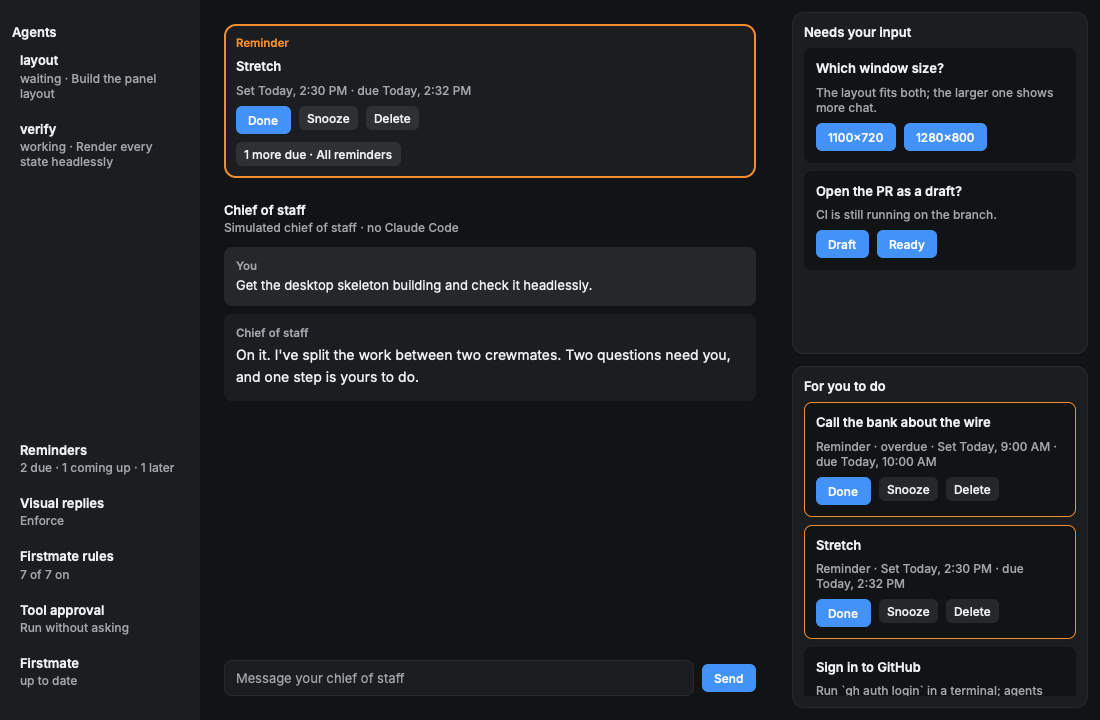
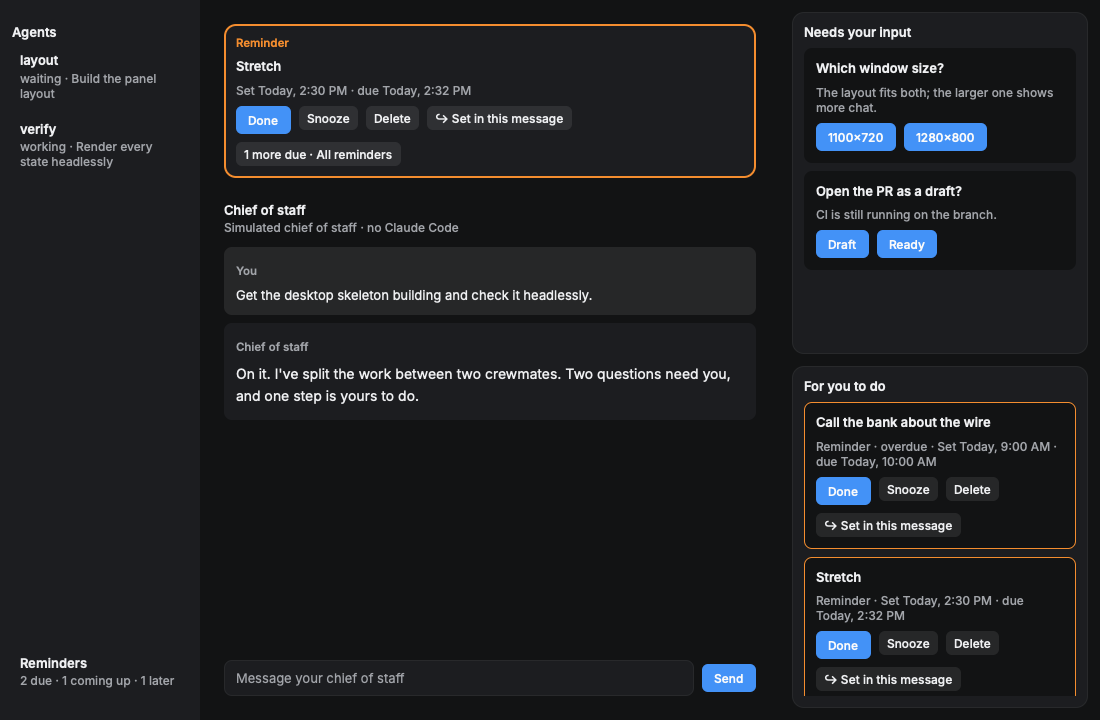
feat(reminders): link reminders to their message and add a Reminders settings section
Now that message links and the Settings menu are on main, a reminder
keeps the id of the captain's message the chief of staff was answering
when it set it. The banner, the For you to do card and the Reminders page
show "Set in this message", which goes to that message like a message
link, and app_reminders names the link.

Reminder settings are the Reminders section of Settings, with a summary
on its card, and the reminder settings page links back to all settings.
The docs, scenes, checks and screenshots follow.

diff --git a/src/main.rs b/src/main.rs
@@ -636,6 +636,9 @@ impl App {
         self.ws.apply(&action);
         if matches!(action, Action::Say(_) | Action::Ui(_)) {
             self.keep(self.ws.chat.len() - 1);
+            // A reminder the chief of staff sets in this turn links back to this message.
+            self.reminders
+                .said_in(&self.ws.chat[self.ws.chat.len() - 1].id);
         }
         self.chief.act(&self.ws, &action);
         self.drain();
@@ -1440,6 +1443,13 @@ fn main() {
                 *s = on_clock(&scratch("unused"), friday(14, 30)).0;
                 s.showing = Showing::ReminderSettings;
             }),
+            // A due reminder's "Set in this message", pressed: the chat at the captain's message,
+            // highlighted.
+            ("reminder-link-opened", |s| {
+                *s = reminders_due().0;
+                let message = s.ws.chat[0].id.clone();
+                s.go_to(&message);
+            }),
         ],
         min_size: Some((900.0, 560.0)),
         setup: Some(setup),
@@ -1515,6 +1525,8 @@ fn reminders_set() -> (App, Hands) {
 /// id of the second. Two more wait.
 fn reminders_due() -> (App, u64) {
     let (mut app, hands) = on_clock(&scratch("unused"), friday(9, 0));
+    // Set in reply to the stub's first message, which the reminders link back to.
+    app.reminders.said_in(&app.ws.chat[0].id);
     app.reminders
         .set("Call the bank about the wire", When::In(1, Unit::Hours))
         .expect("a reminder");
@@ -3805,10 +3817,24 @@ mod tests {
         assert_eq!(reply, "Reminder set for Today, 2:32 PM: Stretch");
         assert_eq!(texts_under(&rt, "reminders-summary"), ["1 coming up"]);
         assert!(rt.find("reminder-banner").is_none());
+        // It links back to the captain's message it was set in.
+        let asked = rt
+            .state
+            .ws
+            .chat
+            .iter()
+            .find(|m| m.text == "remind: in 2 minutes | Stretch")
+            .expect("the captain's message")
+            .id
+            .clone();
+        assert_eq!(rt.state.reminders.list()[0].message.as_ref(), Some(&asked));
         let reply = send_and_wait(&mut rt, "reminders?");
         assert_eq!(
             reply,
-            "It is now Today, 2:30 PM.\n- Today, 2:32 PM: Stretch (set Today, 2:30 PM)"
+            format!(
+                "It is now Today, 2:30 PM.\n- Today, 2:32 PM: Stretch (set Today, 2:30 PM in {})",
+                links::url(&asked)
+            )
         );
         *hands.lock().unwrap() = friday(14, 32);
         rt.frame(1.0 / 60.0);
@@ -3818,10 +3844,36 @@ mod tests {
             ["Set Today, 2:30 PM \u{b7} due Today, 2:32 PM"]
         );
         assert!(rt.find("reminder-1").is_some(), "in For you to do");
+        // From the Reminders page, the link goes back to the message and highlights it.
+        tap(&mut rt, "reminders");
+        tap(&mut rt, "list-1-message");
+        assert_eq!(rt.state.showing, Showing::Chat);
+        assert!(matches!(&rt.state.flash, Some((Ok(id), _)) if *id == asked));
         tap(&mut rt, "banner-1-done");
         assert!(rt.find("reminder-banner").is_none());
         assert!(rt.find("reminder-1").is_none());
         assert!(rt.state.reminders.list().is_empty());
+    }
+
+    #[test]
+    fn the_reminder_settings_are_a_section_of_settings() {
+        let (app, _) = on_clock(&scratch("unused"), friday(14, 30));
+        let mut rt = runtime_with(app);
+        chord(&mut rt, ',', false);
+        assert_eq!(rt.state.showing, Showing::Settings);
+        assert_eq!(
+            texts_under(&rt, "reminder-settings-summary"),
+            ["later today by 6:00 PM \u{b7} mornings 9:00 AM"]
+        );
+        tap(&mut rt, "reminder-settings");
+        assert_eq!(rt.state.showing, Showing::ReminderSettings);
+        tap(&mut rt, "reminder-setting-morning-up");
+        tap(&mut rt, "reminder-settings-all-settings");
+        assert_eq!(rt.state.showing, Showing::Settings);
+        assert_eq!(
+            texts_under(&rt, "reminder-settings-summary"),
+            ["later today by 6:00 PM \u{b7} mornings 9:30 AM"]
+        );
     }
 
     #[test]

diff --git a/src/reminders.rs b/src/reminders.rs
@@ -17,6 +17,7 @@ use jiff::civil::{Date, DateTime, Weekday};
 use jiff::{SignedDuration, Timestamp, ToSpan, Zoned};
 use serde_json::{Value, json};
 
+use crate::links;
 use crate::store::{self, Saved, Shared};
 
 /// The tool that sets a reminder, and the one that lists them.
@@ -403,6 +404,8 @@ pub struct Reminder {
     /// On the Later list: the day it last came back, or was set after that day's time, so it
     /// comes back once a day.
     pub surfaced: Option<Date>,
+    /// The id of the captain's message it was set in reply to, for a link back to it.
+    pub message: Option<String>,
 }
 
 impl Reminder {
@@ -433,6 +436,7 @@ impl Reminder {
             },
             "fired": self.fired.map(|t| t.to_string()),
             "surfaced": self.surfaced.map(|d| d.to_string()),
+            "message": self.message,
         })
     }
 
@@ -454,6 +458,11 @@ impl Reminder {
                 Value::Null => None,
                 v => Some(v.as_str()?.parse().ok()?),
             },
+            // Older files have no message; one that is not a message id is not kept.
+            message: value["message"]
+                .as_str()
+                .filter(|id| links::parse(&links::url(id)).is_some())
+                .map(str::to_string),
         })
     }
 }
@@ -570,6 +579,8 @@ struct Book {
     unreadable: bool,
     /// Counts changes, so the app sees one made by the chat session.
     version: u64,
+    /// The captain's message the chief of staff is answering, which a reminder set now names.
+    said_in: Option<String>,
 }
 
 impl Reminders {
@@ -620,6 +631,7 @@ impl Reminders {
                 unreadable: problem.is_some(),
                 problem,
                 version: 0,
+                said_in: None,
             })),
             settings,
             clock,
@@ -639,6 +651,12 @@ impl Reminders {
 
     pub fn now(&self) -> Zoned {
         (self.clock)()
+    }
+
+    /// The captain's message the chief of staff is now answering, by its id: a reminder set
+    /// from now on links back to it.
+    pub fn said_in(&self, message: &str) {
+        self.book().said_in = Some(message.to_string());
     }
 
     /// Every reminder: those that came due first, oldest first, then those still to come by
@@ -675,7 +693,7 @@ impl Reminders {
                  keeps. Ask them to clear some first."
             ));
         }
-        let id = book.next_id;
+        let (id, message) = (book.next_id, book.said_in.clone());
         book.next_id += 1;
         book.list.push(Reminder {
             id,
@@ -684,6 +702,7 @@ impl Reminders {
             due,
             fired: None,
             surfaced: surfaced(&settings, &now, due),
+            message,
         });
         book.save();
         Ok(match due {
@@ -711,7 +730,10 @@ impl Reminders {
             out.push_str(" The captain has no reminders.");
         }
         for r in &list {
-            let set = words(r.set_at, &now);
+            let set = match &r.message {
+                Some(id) => format!("{} in {}", words(r.set_at, &now), links::url(id)),
+                None => words(r.set_at, &now),
+            };
             out.push_str(&match (r.fired, r.due) {
                 (Some(fired), _) => format!(
                     "\n- Due now, waiting for the captain since {}: {} (set {set})",
@@ -1219,6 +1241,7 @@ mod tests {
         let dir = scratch();
         let now = Arc::new(Mutex::new(at(2026, 11, 13, 14, 30)));
         let reminders = open(&dir, &now);
+        reminders.said_in("3f9a01bc22de");
         reminders
             .set("stretch", When::In(2, Unit::Minutes))
             .unwrap();
@@ -1237,6 +1260,7 @@ mod tests {
         *now.lock().unwrap() = at(2026, 11, 13, 15, 32);
         let reminders = open(&dir, &now);
         assert_eq!(reminders.list(), saved);
+        assert_eq!(saved[0].message.as_deref(), Some("3f9a01bc22de"));
         let fired = reminders.fire_due();
         assert_eq!(fired.len(), 1);
         assert_eq!(fired[0].text, "stretch");

diff --git a/src/view/remind.rs b/src/view/remind.rs
@@ -4,11 +4,11 @@
 
 use jiff::Zoned;
 use rune::tok::{self, Theme, radius, space, type_};
-use rune::{El, col, row, text, text_input};
+use rune::{El, col, el, row, text, text_input};
 
-use super::{button, note, page, section, small_button, warning};
+use super::{all_settings, button, note, page, section, small_button, warning};
 use crate::reminders::{Due, Reminder, Setting, Unit, When, clock_words, words};
-use crate::{App, Showing};
+use crate::{App, Showing, links};
 
 /// The banner over the middle column while a reminder is due: the latest to come due, with
 /// how many more wait.
@@ -99,6 +99,26 @@ fn actions(s: &App, place: &'static str, r: &Reminder, t: Theme, dark: bool) -> 
         .child(small_button(&key("delete"), "Delete", t, move |s| {
             s.delete_reminder(id)
         }));
+    if let Some(message) = &r.message {
+        let url = links::url(message);
+        buttons = buttons.child(
+            el().key(key("message"))
+                .role("link")
+                .label("Go to the message it was set in")
+                .focusable(true)
+                .h(24.0)
+                .px(space::S2)
+                .center()
+                .radius(radius::SM)
+                .fill(t.control_off)
+                .on_press_tx(move |s: &mut App, tx: &mut rune::Tx| s.open_link(&url, tx))
+                .child(
+                    text("\u{21aa} Set in this message")
+                        .font(type_::LABEL)
+                        .color(t.text),
+                ),
+        );
+    }
     let mut out = col().gap(space::S2).child(buttons);
     if open {
         out = out.child(snooze_menu(s, place, id, t, dark));
@@ -209,6 +229,16 @@ fn group(r: &Reminder) -> &'static str {
     }
 }
 
+/// What the keywords mean, in a few words, for the Reminders section of Settings.
+pub fn settings_summary(s: &App) -> String {
+    let x = s.reminder_settings.settings();
+    format!(
+        "later today by {} \u{b7} mornings {}",
+        x.shown(Setting::Evening),
+        x.shown(Setting::Morning)
+    )
+}
+
 /// The card summary under the agents, such as "1 due · 3 coming up · 2 later".
 pub fn summary(s: &App) -> String {
     let list = s.reminders.list();
@@ -302,8 +332,9 @@ pub fn reminders_page(s: &App, t: Theme, dark: bool) -> El {
         "reminders-kept",
         &format!(
             "These are your own reminders in Velvet Hammer, not firstmate tasks. Each keeps its \
-             text, when it was set, when it is due and whether it has come due, in {} in \
-             Velvet Hammer's data directory, readable by your user only. A reminder that comes \
+             text, when it was set, when it is due, whether it has come due and the message \
+             it was set in, in {} in Velvet Hammer's data directory, readable by your user \
+             only. A reminder that comes \
              due shows here, in a banner and in For you to do, and in your system's \
              notifications where Velvet Hammer may post them.",
             crate::reminders::FILE
@@ -421,6 +452,7 @@ pub fn settings_page(s: &App, t: Theme, dark: bool) -> El {
         .child(button("reminder-settings-back", "Reminders", t, |s| {
             s.showing = Showing::Reminders
         }))
+        .child(all_settings("reminder-settings-all-settings", s, t))
         .child(button("reminder-settings-close", "Back to chat", t, |s| {
             s.showing = Showing::Chat
         }));

diff --git a/src/view/settings.rs b/src/view/settings.rs
@@ -47,6 +47,13 @@ pub fn settings_page(s: &App, t: Theme, dark: bool) -> El {
             firstmate_summary(&s.firstmate).to_string(),
             Showing::Firstmate,
             t,
+        ))
+        .child(section_card(
+            "reminder-settings",
+            "Reminders",
+            super::remind::settings_summary(s),
+            Showing::ReminderSettings,
+            t,
         ));
     let body = col()
         .key("settings-body")
@@ -56,8 +63,8 @@ pub fn settings_page(s: &App, t: Theme, dark: bool) -> El {
                 .child(note(
                     "settings-help",
                     "How your chief of staff's tool uses are decided, how its replies are shown, \
-                     the firstmate rules its hook enforces, and the firstmate clone it runs on. \
-                     Each opens its page.",
+                     the firstmate rules its hook enforces, the firstmate clone it runs on, and \
+                     the times your reminders' words stand for. Each opens its page.",
                     t,
                 ))
                 .child(sections),

diff --git a/docs/reminders.md b/docs/reminders.md
@@ -73,8 +73,14 @@ due shows in three places:
   a toast only for a registered app, which Velvet Hammer does not do yet; elsewhere there are none.
 
 A reminder that came due while the app was not running shows as due, marked **overdue**, as soon
-as the app opens. A reminder does not yet link back to the chat message where it was set,
-though [message links](links.md) exist.
+as the app opens.
+
+**Set in this message.** A reminder keeps the id of the captain's message the chief of staff was
+answering when it set it, and shows **↪ Set in this message** in the banner, its For you to do
+card and the Reminders page. Pressing it goes to that message the way a
+[message link](links.md) does: the chat scrolls to it and highlights it briefly, or says it is
+not in the chat when the conversation history no longer holds it. `app_reminders` gives the
+chief of staff the same link, as "(set Today, 2:30 PM in velvet-hammer://message/…)".
 
 **Snooze** opens a small menu: **10 minutes**, **1 hour**, **Later today**, **Tomorrow morning**,
 **Next week** and **Later list**, and a field for a number of minutes, hours or days. A snoozed
@@ -87,11 +93,13 @@ page.
 The **Reminders** card under the agents, which says how many are due, coming up and later, opens
 the **Reminders** page: **Due now**, **Coming up** in time order, and the **Later list**, each
 reminder with its time, its text, when it was set, and its actions. **All reminders** at the
-bottom of For you to do opens it too. **Settings** on the page opens **Reminder settings**: each
+bottom of For you to do opens it too. **Reminder settings** is the **Reminders** section of
+**Settings** (Cmd+, on macOS), whose card sums them up ("later today by 6:00 PM · mornings 9:00
+AM"); **Settings** on the Reminders page opens it too. It has each
 setting with **−** and **+** (hours one at a time, times by half an hour, the day of the week
 round the week), **Reset to the defaults**, and what the keywords mean if said now. The settings
-apply at once, to reminders set from then on. They are not yet a section of the app's
-**Settings** page, so this page is the only way to reach them.
+apply at once, to reminders set from then on. Its buttons go back to the Reminders page, to all
+settings, and to the chat.
 
 ## What is stored
 
@@ -99,8 +107,8 @@ Both files are in the app's data directory (`~/.velvet-hammer`, or `$VELVET_HAMM
 a repository or in firstmate's home.
 
 - `reminders.json` keeps, for each reminder, a number, its text, when it was set, when it is due
-  (or that it is on the Later list), when it came due if it has, and for the Later list the day it
-  last came back. Nothing else from the conversation is stored. The file is written whole (a
+  (or that it is on the Later list), when it came due if it has, for the Later list the day it
+  last came back, and the id of the message it was set in. Nothing else from the conversation is stored. The file is written whole (a
   temporary file, synced, then renamed into place) and readable by the captain only (mode
   0600). If it cannot be read, the page says why and shows no reminders,
   and the next change keeps the old file as `reminders.json.bad`.
@@ -135,3 +143,5 @@ outside the app.
 | Two reminders due, one overdue: the banner and For you to do | [reminder-fired.png](screens/reminders/reminder-fired.png) |
 | The snooze menu open on the banner | [reminder-snooze.png](screens/reminders/reminder-snooze.png) |
 | Reminder settings, with what each keyword means now | [reminder-settings.png](screens/reminders/reminder-settings.png) |
+| **Set in this message** pressed: the chat at the captain's message, highlighted | [reminder-link-opened.png](screens/reminders/reminder-link-opened.png) |
+| Settings, with its Reminders section | [settings.png](screens/settings/settings.png) |

diff --git a/README.md b/README.md
@@ -46,7 +46,7 @@ The window has three columns, and every setting is in **Settings** (see
   transcript in place of the chat; **Back to chat** closes it. Under them, **Projects** lists the
   projects in firstmate's records with **Add project**.
   The **Reminders** card at the bottom of the column shows how many are set and opens
-  their page, which links to the reminder settings.
+  their page; their settings are the **Reminders** section of Settings.
 - **Chief of staff** (middle): the conversation, with a message field and a **Send** button. A
   line under the heading says what runs it, such as "Claude Code · signed in with your Claude Max
   plan". When Claude Code is not ready, a sign-in screen takes the conversation's place. With no
@@ -265,7 +265,8 @@ are checked first; a rule's deny is final, and its question is asked whatever th
   `tool-activity.jsonl.1` when it passes 1 MB. It is readable by your user only (mode 0600) but
   holds command text as typed, so avoid putting secrets in commands.
 - **Reminders.** The data directory also holds `reminders.json`, which keeps each reminder's
-  text, when it was set, when it is due and whether it has come due (mode 0600), and
+  text, when it was set, when it is due, whether it has come due and the message it was set in
+  (mode 0600), and
   `reminder-settings.json`. See [What is stored](docs/reminders.md#what-is-stored).
 - **Where the settings live.** `tool-approval.json` in the same directory (versioned, written to a
   temporary file and renamed into place), never in your Claude settings or a repository.
@@ -401,6 +402,7 @@ It writes these files to `OUT_DIR`:
 | `reminder-fired.png`, `reminder-fired.json` | Two reminders due, one overdue: the banner and the top of For you to do |
 | `reminder-snooze.png`, `reminder-snooze.json` | The snooze menu open on the banner |
 | `reminder-settings.png`, `reminder-settings.json` | Reminder settings, with what each keyword means now |
+| `reminder-link-opened.png`, `reminder-link-opened.json` | A due reminder's **Set in this message** pressed: the chat at the captain's message, highlighted |
 | `walk-sent.json` | `scripts/walkthrough.json` after typing and sending a message |
 | `walk-end.png`, `walk-end.json` | The same script after answering an item, finishing the task and opening a peek |
 
